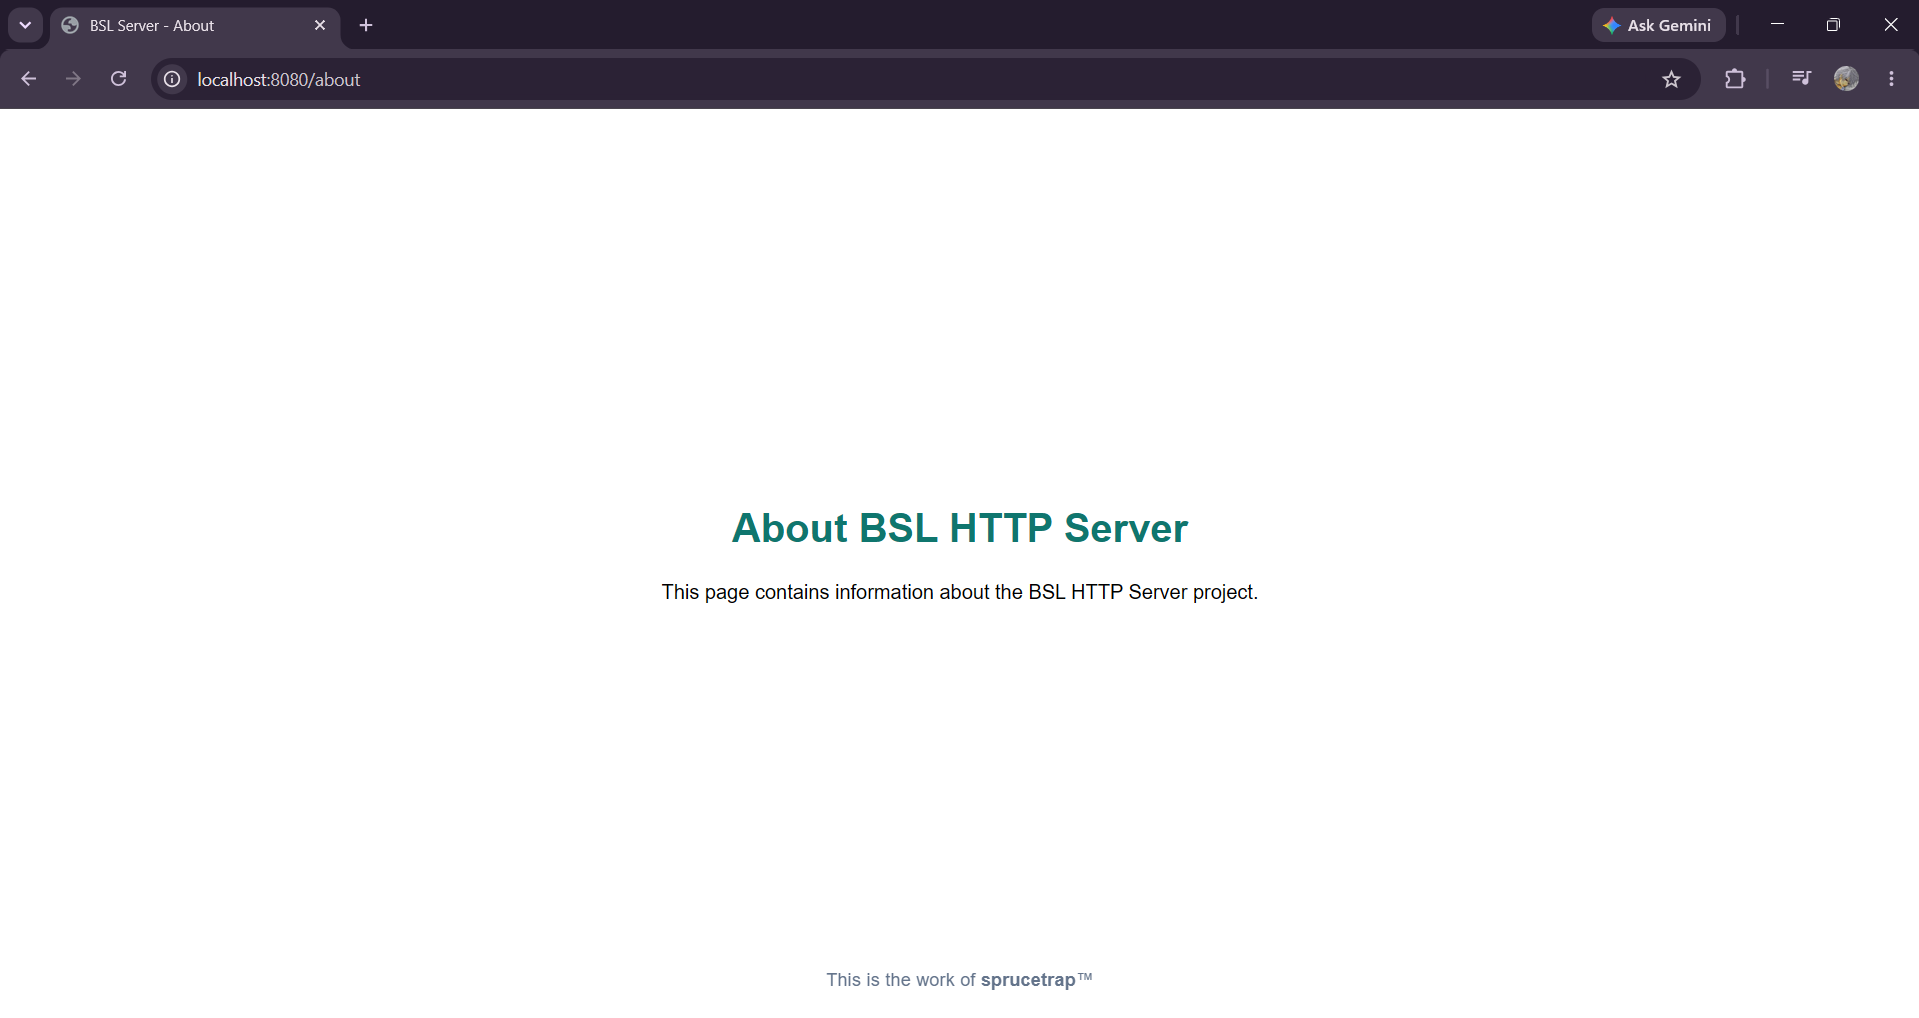
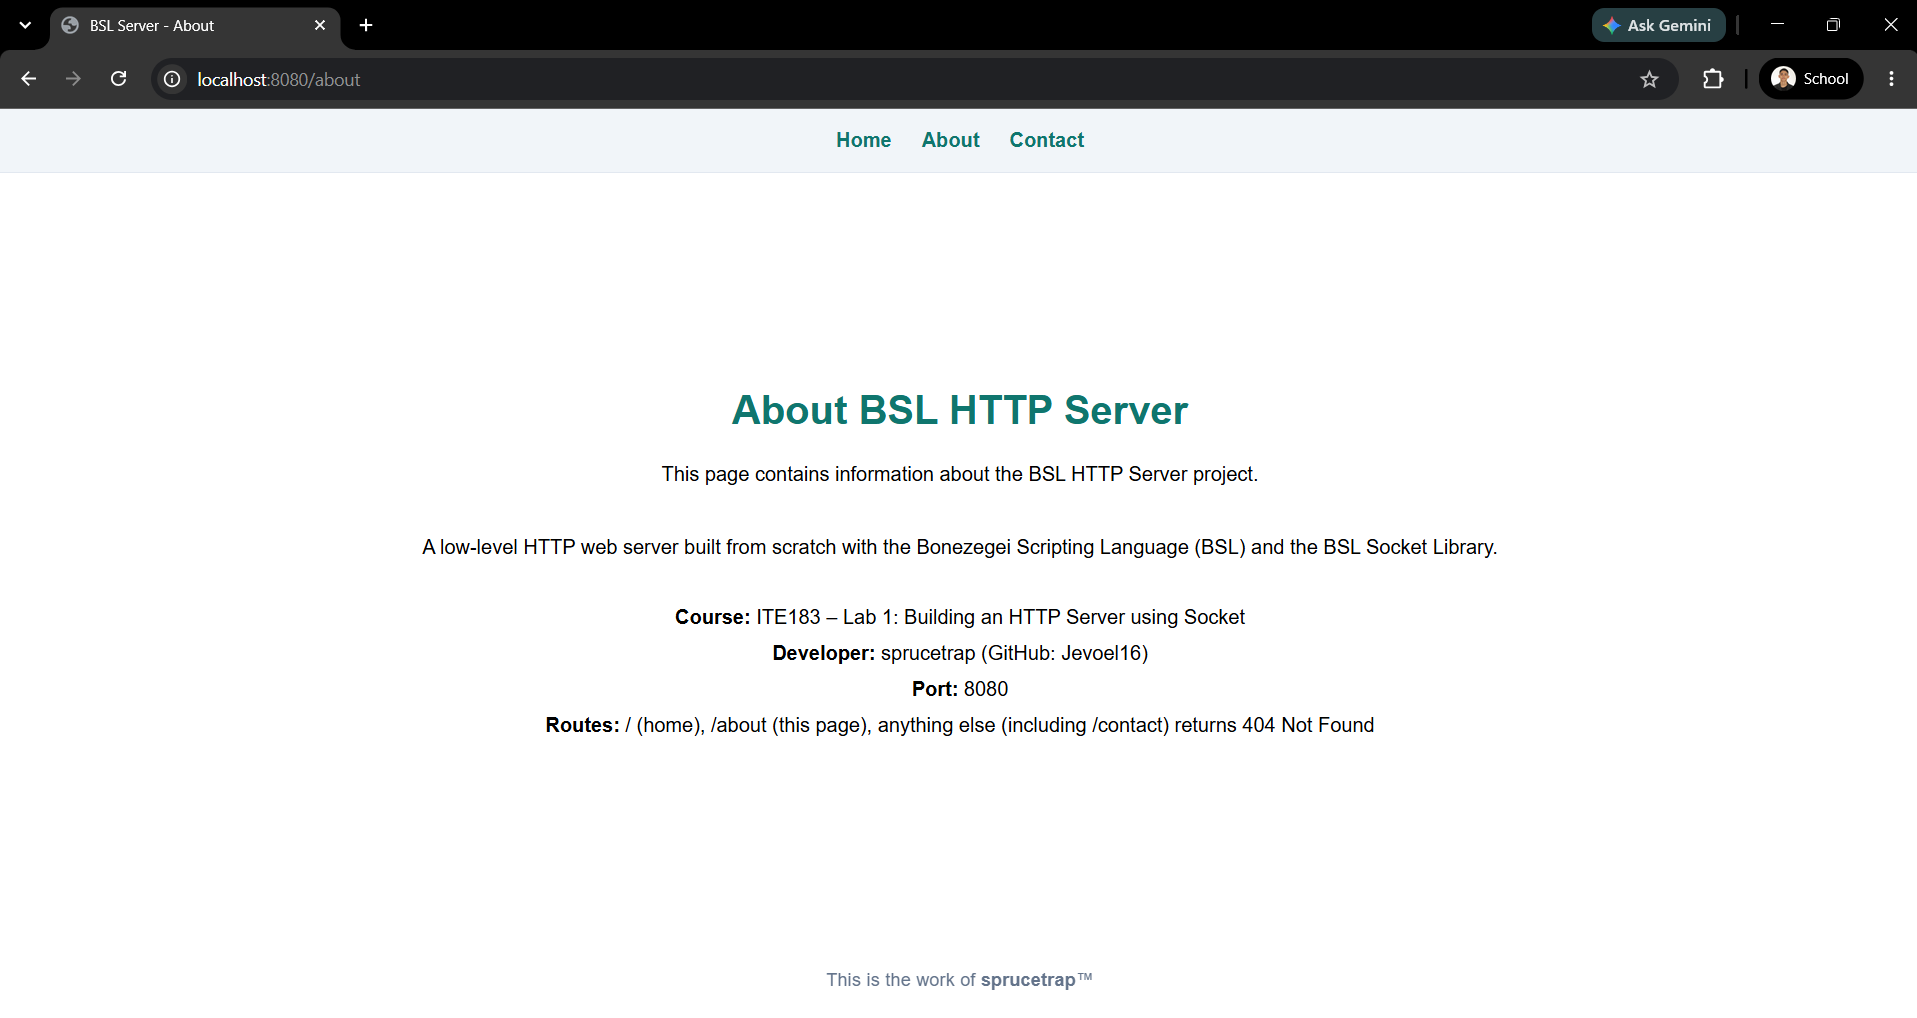
refactor: rebuild http server on the lab starter template
- Rebuild src/http.bzg from the lab's starter code, keeping its steps, comments and messages
- Replace the template's .indexOf() checks with regex(); BSL v1.3.3 has no string .indexOf()
- Add shared page styling and a footer credit to every route
- Add a top nav bar with Home, About and Contact links; Contact opens the 404 page
- Expand the /about page with project, course, developer and route details
- Correct the .gitattributes example in the README to use JavaScript
- Add the Bonezegei VS Code extension step, a How It Works section and a socket troubleshooting note to the README
- Document the nav bar and /contact 404 example in the README
- Ignore commit-msg.txt, .claude/ and CLAUDE.md
- Retake home, about, 404 and terminal screenshots to show the nav bar
- Show the logged /, /about and /contact requests in terminal.png
- Update the README screenshot captions for the /contact 404 example

diff --git a/README.md b/README.md
@@ -35,10 +35,12 @@ A low-level HTTP Web Server built from scratch using the Bonezegei Scripting Lan
 
 ### Development Environment (VS Code)
 * Download and install [Visual Studio Code](https://code.visualstudio.com/).
+* Open the Extensions tab (`Ctrl+Shift+X` on Windows/Linux, `Cmd+Shift+X` on macOS), search for **"Bonezegei"**, and install the **Bonezegei Scripting Language Formatter** extension.
+* Follow the instructions embedded in the extension to install the Bonezegei Interpreter for your OS (the steps above). macOS and Android users should use **GitHub Codespaces** and follow the Linux installation.
 * Open the project directory in VS Code.
-* Configure a `.gitattributes` file in your repository root to ensure GitHub and code editors properly detect syntax for `.bzg` source files:
+* The repository root contains a `.gitattributes` file so GitHub renders `.bzg` source files with JavaScript syntax highlighting:
   ```gitattributes
-  *.bzg linguist-language=C
+  *.bzg linguist-language=JavaScript
   ```
 
 ### Verifying Installation
@@ -83,19 +85,33 @@ cd my-bsl-http-server
 bonezegei src/http.bzg
 ```
 
-By default, the server binds to port `8080` (or your configured port) and begins listening for incoming HTTP connections.
+The server binds to port `8080` and begins listening for incoming HTTP connections. You should see `Socket Ready` followed by `Server running on http://localhost:8080/` in the terminal. Press `Ctrl+C` to stop it.
+
+> **Troubleshooting:** If the server prints `Server running on http://localhost:8080/` but the browser can't connect, your socket library was probably installed with an older Bonezegei interpreter. After an interpreter update, re-run `bzg install socket` in the project folder and start the server again.
+
+---
+
+# How It Works
+
+`src/http.bzg` is built on the lab's starter code template and keeps its steps: initialize the socket, create the server, bind to port `8080`, listen, then loop to accept a client, read the request, pick a route, write the response and close the connection.
+
+Customizations on top of the template:
+- **Route matching uses `regex()`**. BSL v1.3.3 has no string `.indexOf()` method, so each of the template's checks is written as `sizeof(regex("GET /about", data)) > 0`, which means the same thing.
+- **Shared styling**: a centered page layout and a "sprucetrap" footer credit on every page.
+- **Navigation bar** at the top of every page with **Home**, **About** and **Contact** links for switching routes quickly. `/contact` has no route on purpose, so it opens the 404 page.
+- **Expanded `/about` page** with the project, course, developer, port and route details.
 
 ---
 
 # Usage Instructions
 
-Once the server is running, open any web browser or HTTP client and navigate to the following endpoints:
+Once the server is running, open any web browser or HTTP client and navigate to the following endpoints. In the browser you can also switch between them with the **Home**, **About** and **Contact** links in the navigation bar at the top of every page.
 
 | Endpoint | Target URL | Expected Status | Description |
 |---|---|---|---|
 | **Root** | `http://localhost:8080/` | `200 OK` | Loads the primary index landing page. |
 | **About** | `http://localhost:8080/about` | `200 OK` | Displays project details, purpose, and environment info. |
-| **404 Fallback** | `http://localhost:8080/anything` | `404 Not Found` | Dispatches the custom 404 error page for unregistered paths (e.g. `/home`, `/user`, `/anything`). |
+| **404 Fallback** | `http://localhost:8080/contact` | `404 Not Found` | Dispatches the custom 404 error page for unregistered paths (e.g. `/contact` from the nav bar, `/user`, `/anything`). |
 
 ---
 
@@ -113,12 +129,12 @@ Browser displaying the `/about` endpoint content.
 
 ![About Route](documentation/about.png)
 
-## 3. 404 Error Page (`/anything`)
-Browser showing the 404 response for an unhandled path.
+## 3. 404 Error Page (`/contact`)
+Browser showing the 404 response for an unhandled path, reached here through the **Contact** nav link.
 
 ![404 Error Route](documentation/404.png)
 
 ## 4. Terminal Server Execution
-Terminal output showing the server actively listening, with username and directory path clearly visible.
+Terminal output showing the server bound to port 8080 and logging the full `GET /`, `GET /about` and `GET /contact` requests from the browser, with username and directory path clearly visible.
 
 ![Terminal Server](documentation/terminal.png)
